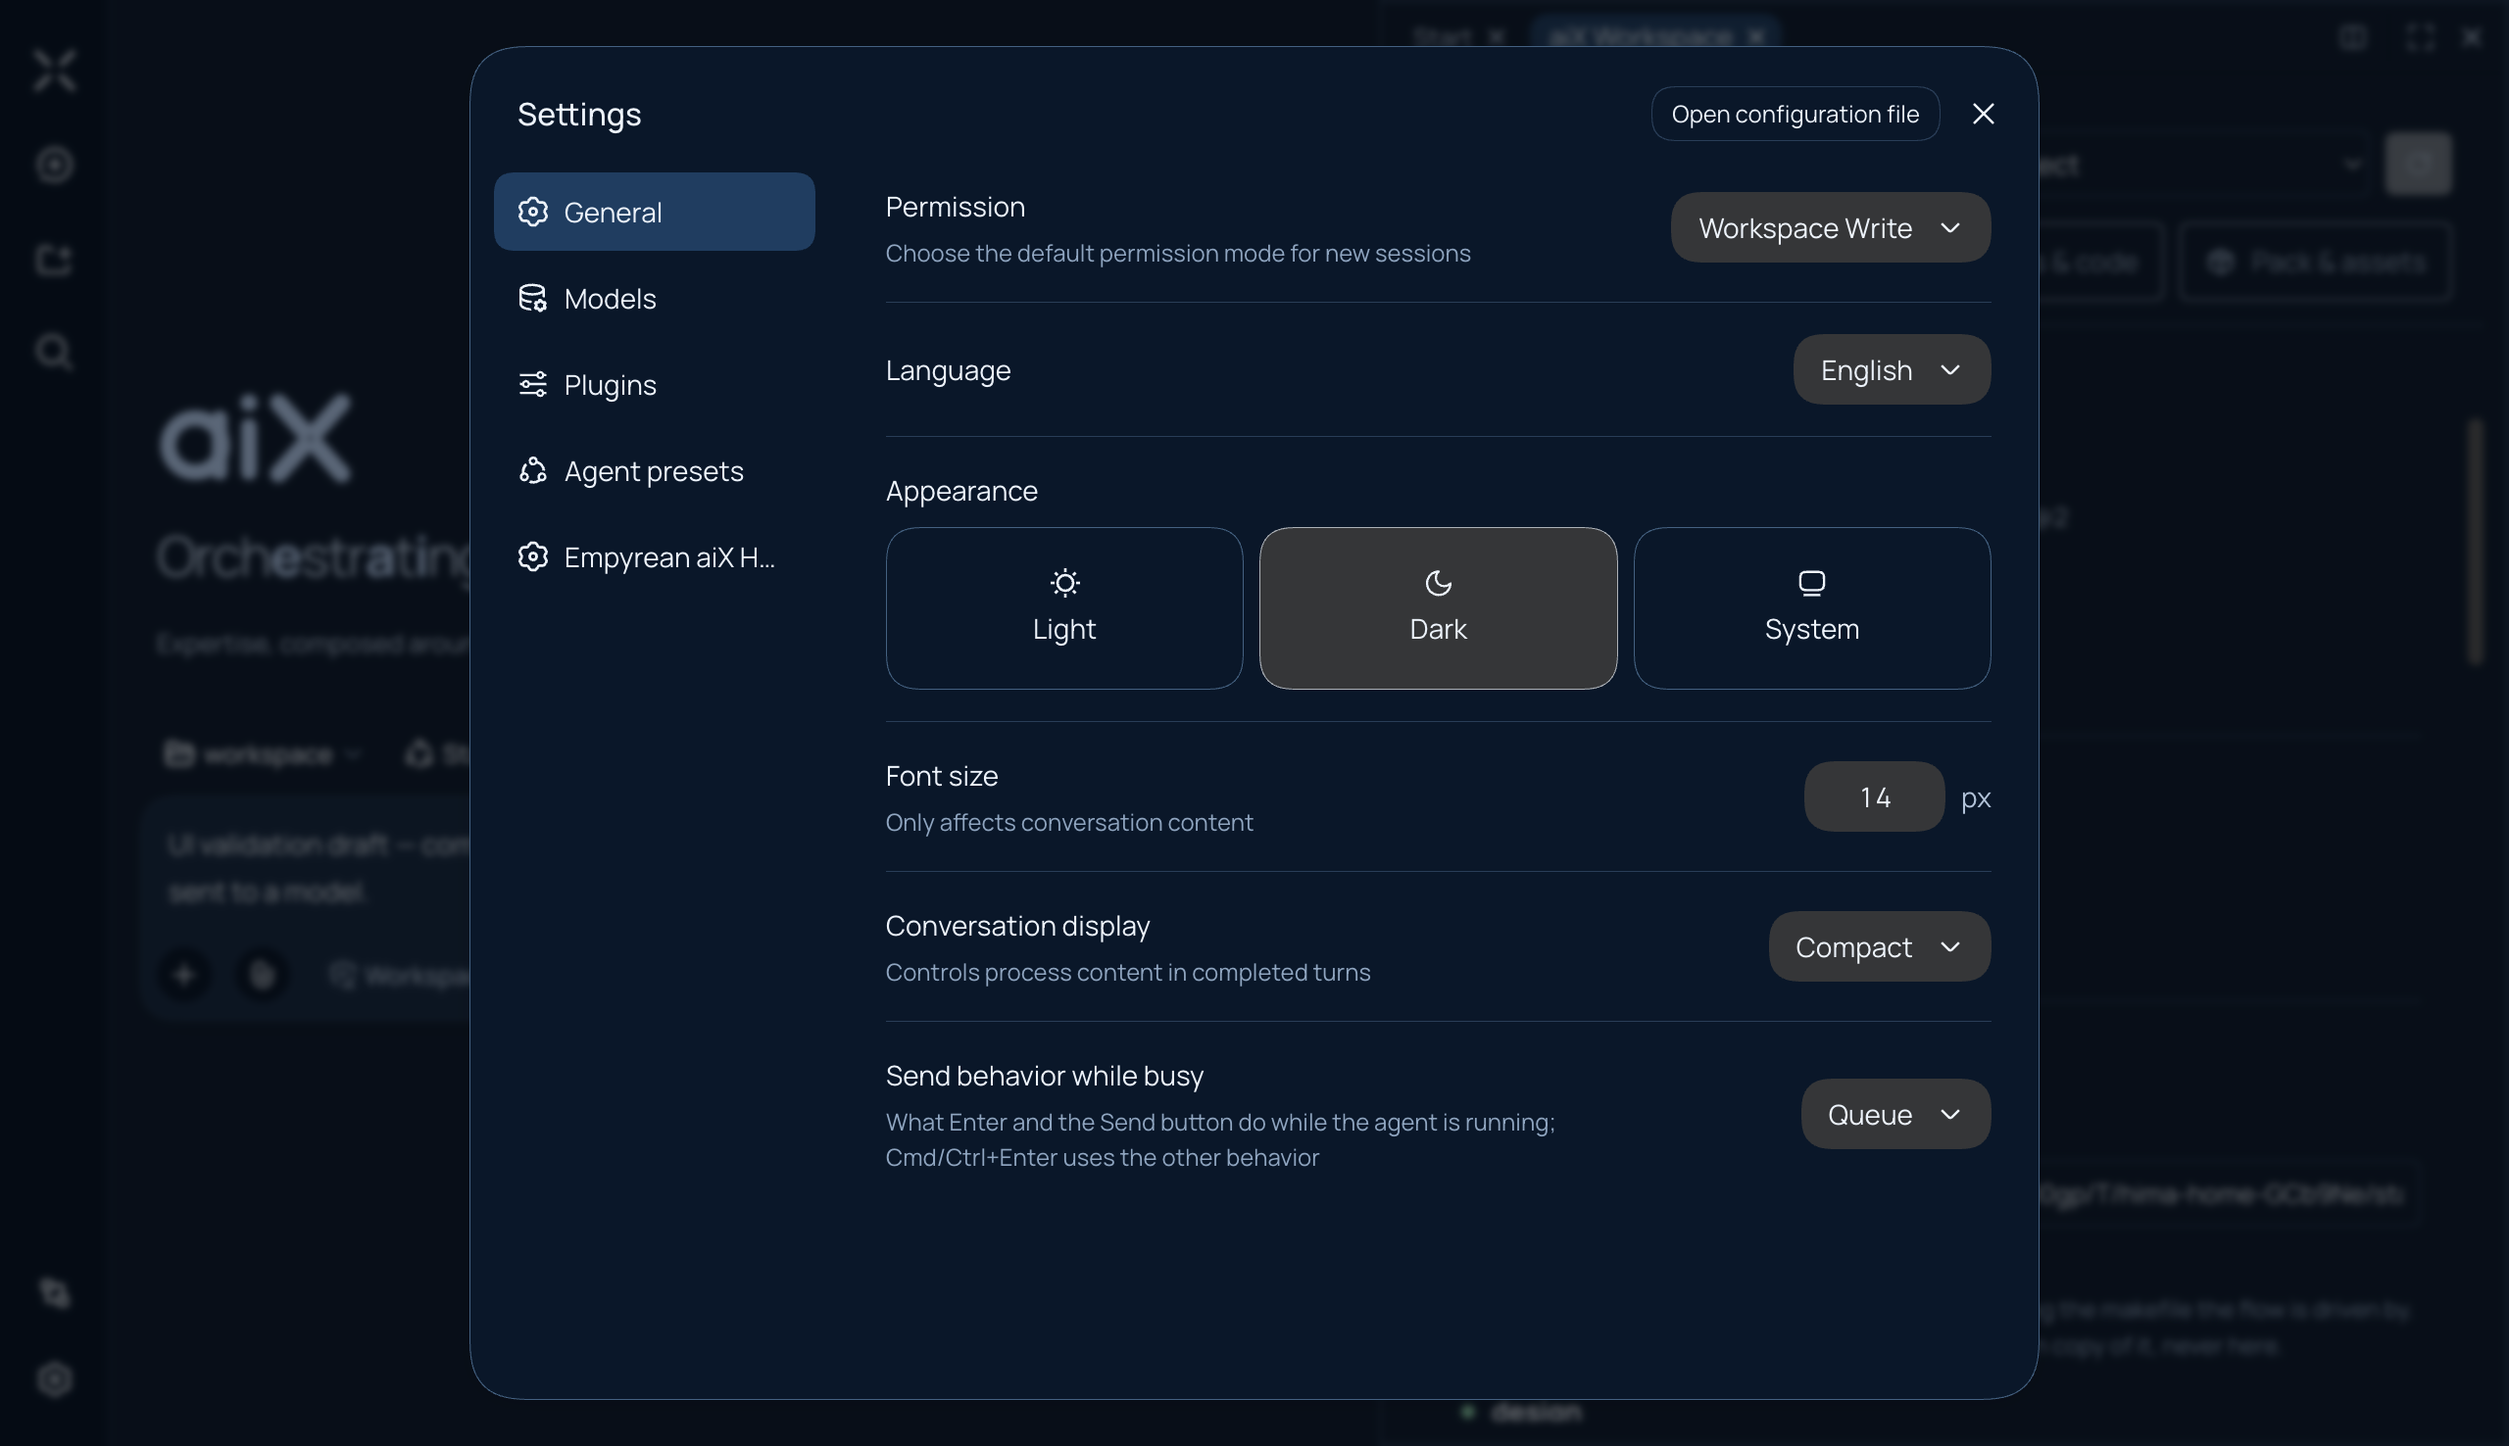
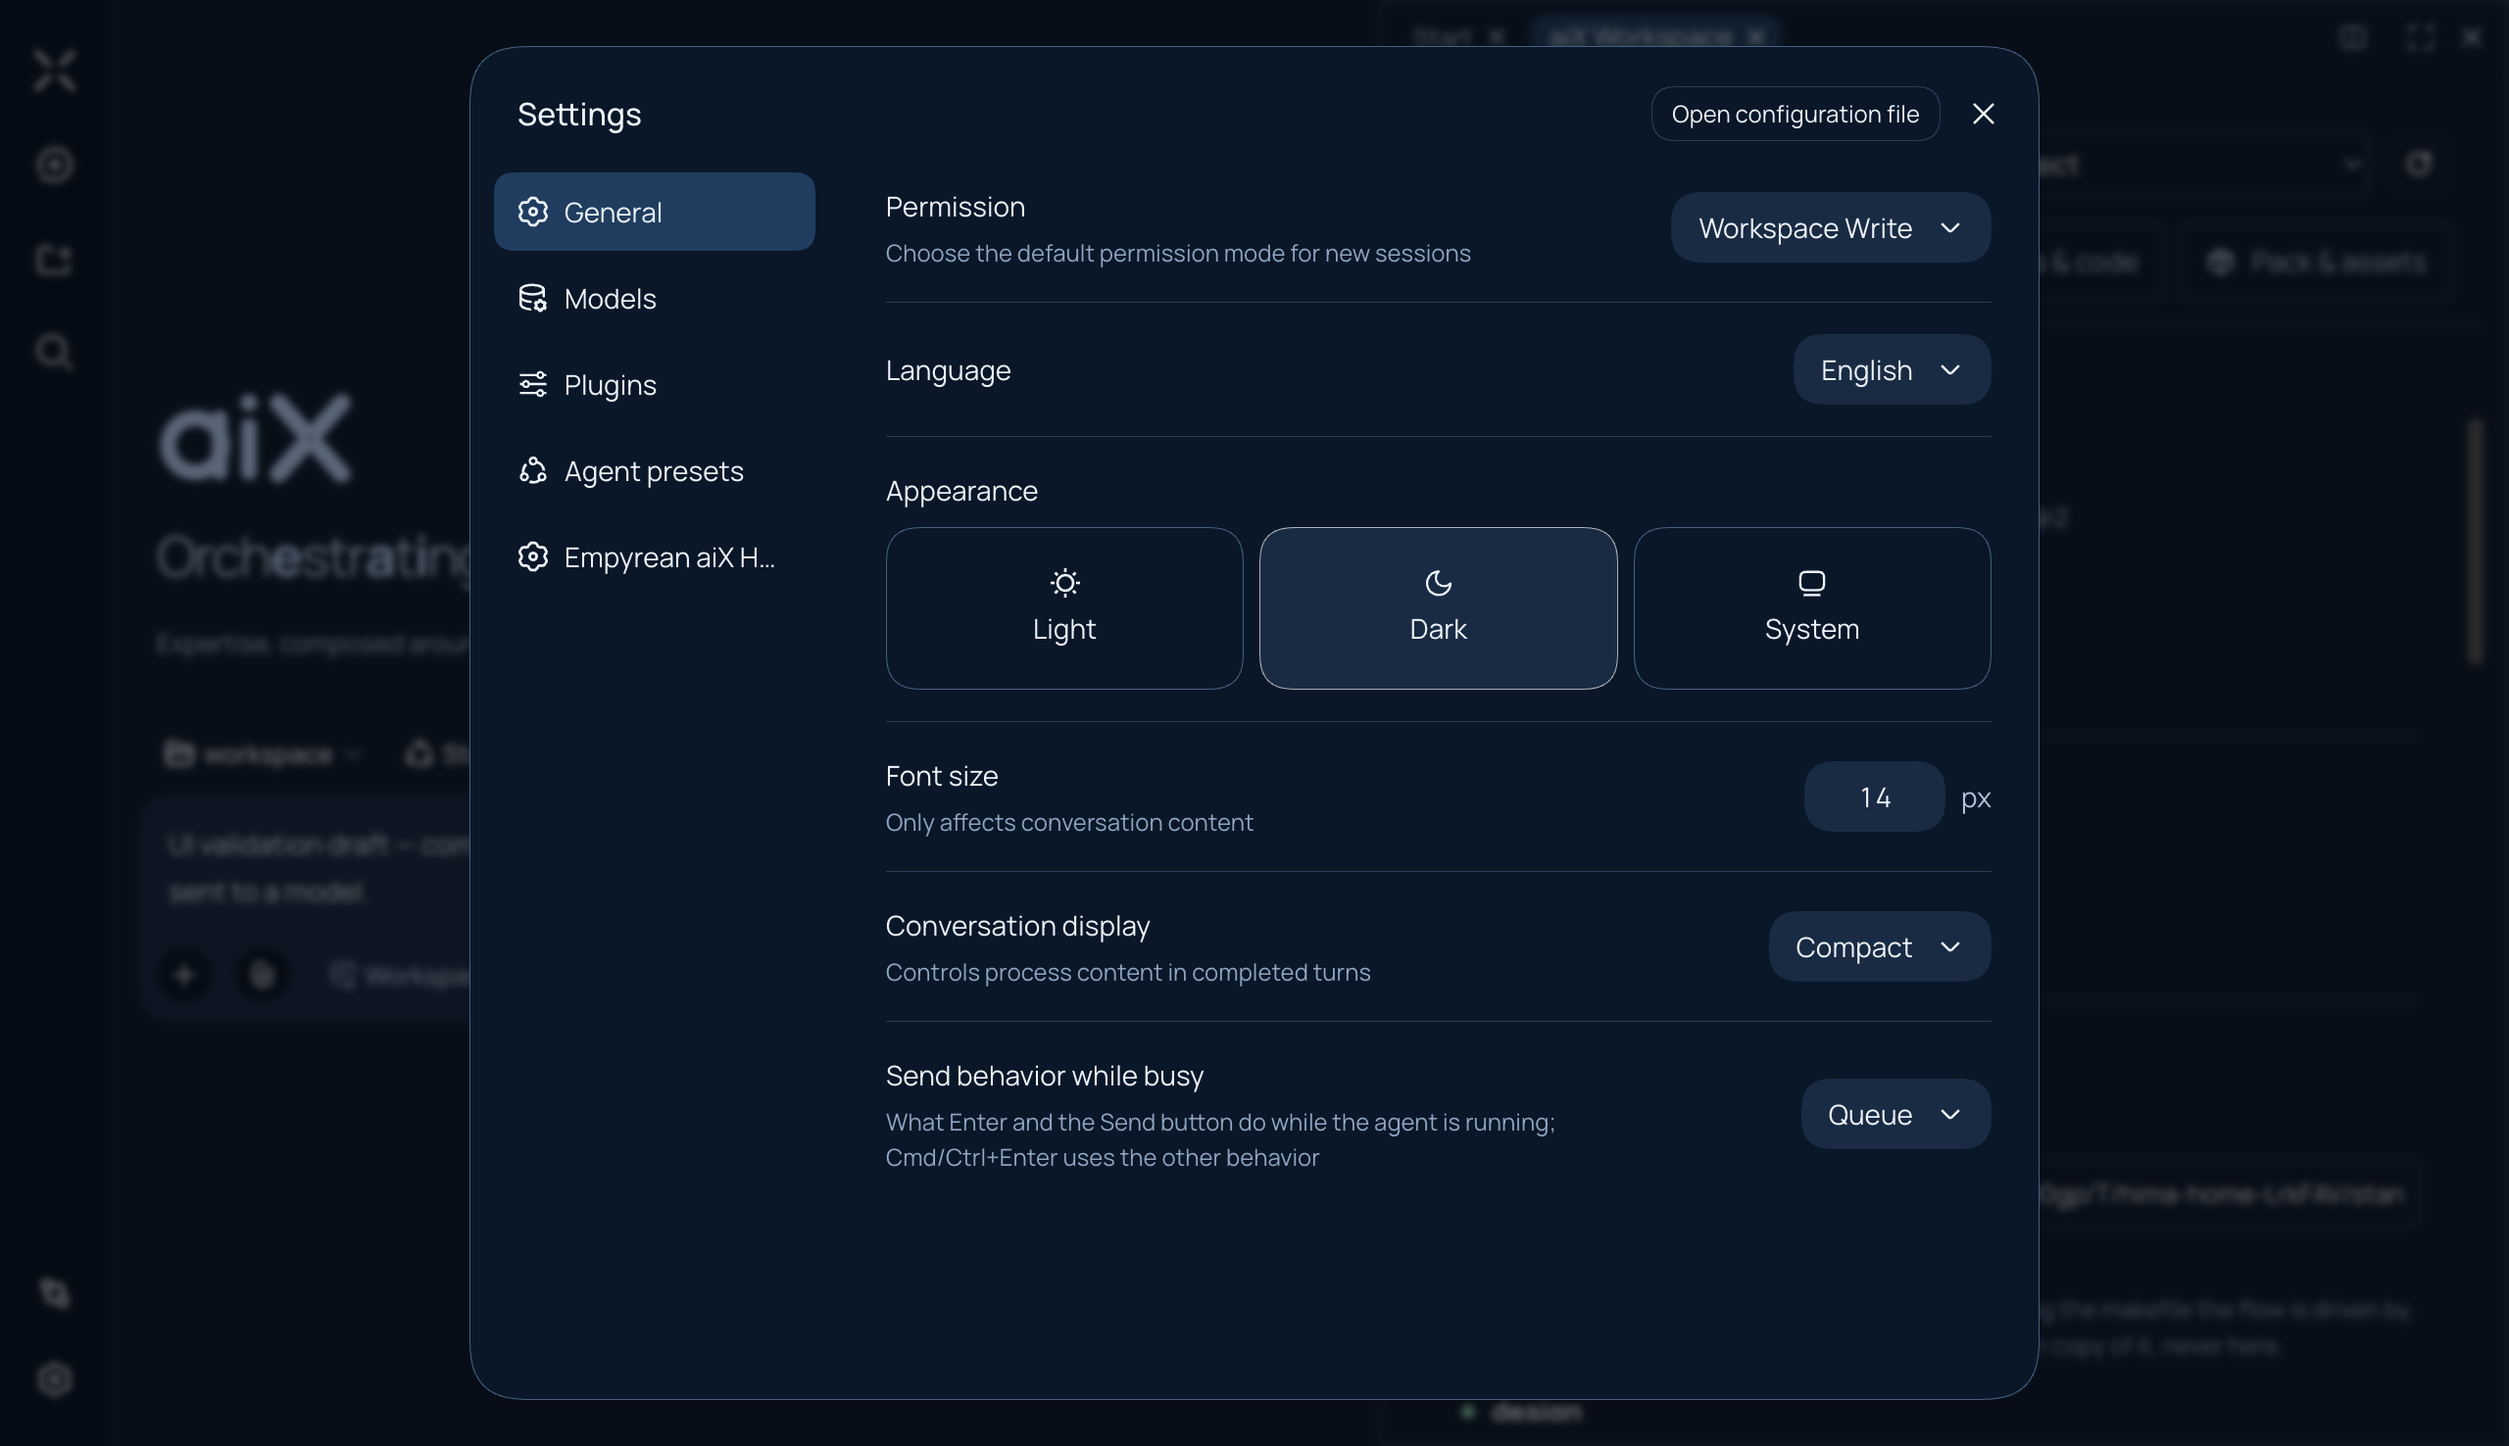
fix(ui): match native settings controls to aiX surfaces
Map the native platform surface alias into the shared palette and verify
the actual Appearance controls under both manual themes.

Refs #115

diff --git a/test/contract/unified-workbench.test.ts b/test/contract/unified-workbench.test.ts
@@ -165,12 +165,14 @@ test('aiX branding uses the native theme and keeps configuration usable in a nar
     await browser.markText('[role="dialog"] button', 'Light', 'native-theme-light');
     assert.ok((await d.click('native-theme-light')).ok);
     await browser.wait(`!document.body.hasAttribute('data-ds-dark-theme')`);
+    assert.equal(await browser.evaluate(`getComputedStyle(document.querySelector('[data-hima-control="native-theme-light"]')).backgroundColor`), 'rgb(237, 242, 248)');
     assert.equal(await browser.evaluate(`getComputedStyle(document.body).getPropertyValue('--dsw-alias-bg-base').trim()`), '#ffffff');
     assert.equal(await browser.evaluate(`getComputedStyle(document.querySelector('[data-hima-region="studio"]')).backgroundColor`), 'rgb(255, 255, 255)');
     await browser.send('Emulation.setEmulatedMedia', { features: [{ name: 'prefers-color-scheme', value: 'light' }] });
     await browser.markText('[role="dialog"] button', 'Dark', 'native-theme-dark');
     assert.ok((await d.click('native-theme-dark')).ok);
     await browser.wait(`document.body.hasAttribute('data-ds-dark-theme')`);
+    assert.equal(await browser.evaluate(`getComputedStyle(document.querySelector('[data-hima-control="native-theme-dark"]')).backgroundColor`), 'rgb(25, 43, 67)');
     assert.equal(await browser.evaluate(`getComputedStyle(document.body).getPropertyValue('--dsw-alias-bg-base').trim()`), '#101d30');
     assert.equal(await browser.evaluate(`getComputedStyle(document.querySelector('[data-hima-region="studio"]')).backgroundColor`), 'rgb(16, 29, 48)');
     await capture(d, browser, 'aix-native-appearance');

diff --git a/packages/harness/src/client/aix-style.ts b/packages/harness/src/client/aix-style.ts
@@ -13,6 +13,7 @@ body.aix-shell{
   --aix-success:#24754d;--aix-warning:#916109;--aix-error:#b13c45;--aix-code:#091a31;--aix-code-ink:#d9e6f5;
   --dsw-font-family:var(--aix-font-ui);
   --dsw-alias-bg-base:var(--aix-paper);--dsw-alias-bg-layer-1:var(--aix-paper);--dsw-alias-bg-layer-2:var(--aix-soft);--dsw-alias-bg-layer-3:var(--aix-paper);
+  --dsw-alias-bg-module-platform:var(--aix-panel);
   --dsw-alias-border-l1:var(--aix-soft);--dsw-alias-border-l2:var(--aix-border);--dsw-alias-border-l3:var(--aix-border);--dsw-alias-border-l4:var(--aix-border-strong);
   --dsw-alias-label-primary:var(--aix-ink);--dsw-alias-label-primary-bluish:var(--aix-ink);--dsw-alias-label-secondary:var(--aix-muted);--dsw-alias-label-tertiary:var(--aix-caption);--dsw-alias-label-caption:var(--aix-caption);
   --dsw-alias-label-primary-inverted:var(--aix-on-brand);--dsw-alias-brand-primary:var(--aix-brand);--dsw-alias-brand-text:var(--aix-brand);--dsw-alias-brand-primary-new-colorprimary-new-color:var(--aix-brand);

diff --git a/docs/assessment/2026-10-15/aixui/README.md b/docs/assessment/2026-10-15/aixui/README.md
@@ -16,9 +16,10 @@ Screenshots are actual Electron windows on Catsights, not design mockups:
 
 ## Verification
 
-- Fresh workspace build, TypeScript, seam and boundary checks passed.
+- Fresh workspace build, TypeScript, seam and boundary checks passed; the commit hook also passed all 47 unit tests.
 - 56 focused local contracts passed: client-style, workbench-address, reports-and-sections-view and canvas-layout.
 - Three real desktop workflows passed with no skips: native branding/theme/narrow configuration, Guide/Campaign/Data Insight navigation, and conversation draft/native files/verified reports with a real local Run.
+- Final visual inspection found the native settings platform background alias still neutral. It now uses the shared panel color; the real theme workflow verifies the selected Appearance control in both themes and passed again.
 - The theme workflow was strengthened and passed again after review: actual native Light under dark OS media, actual native Dark under light OS media, shell aliases and Project surfaces agree, and composer draft survives.
 - The two served-bundle registration cases reproduced `ReferenceError: document is not defined` before the guard. Both passed after the fix. The related actual Electron served-bundle case also passed 1/1. A separate whole-file registration run passed 13/13, but it overlapped the rebuild and is supplementary rather than the primary before/after evidence.
 - Native icon: macOS `iconutil` decoded the generated ICNS; PNG resources span 16–1024 px. The actual packager stamping block applied to the upstream Electron plist copied exact icon bytes, selected `aix.icns`, and retained executable/bundle identities. This was a packaging fixture check, not a full signed/notarized release or live Finder acceptance.
@@ -39,6 +40,8 @@ The full local regression did **not** pass. The run was interrupted after concre
 
 - ATCS source is `0.4.11` while several unchanged tests demand `0.4.0`. The unchanged method installation test additionally expects a released `VERSION.yml`, which the current development Pack does not contain. These mismatches exist in the selected HUG-DBOS source and are not repaired by issuing a fabricated release seal.
 - `dbos-flow.host.test.ts` failed during input revision with `Derived task parent is terminal or released; no new business work`. Relevant backend/test files are unchanged by this UI upgrade. Its root cause has not been established, so it is not classified as a proven baseline defect.
+
+A focused rerun on the final source independently reproduced all three stale-version assertions (3 failed, 0 passed); the release-seal assertion is downstream of its failing version assertion and was inspected, not reached in that rerun. The first push check was interrupted to apply the final settings-color correction; no remote branch was created.
 
 The pre-push hook requires `pnpm run check:local`. Until that gate succeeds or the user explicitly chooses a different delivery rule, this candidate must not be represented as merged or fully qualified. Merge target remains HUG-DBOS. No data migration is required; rollback is the independent visual commit.
 
